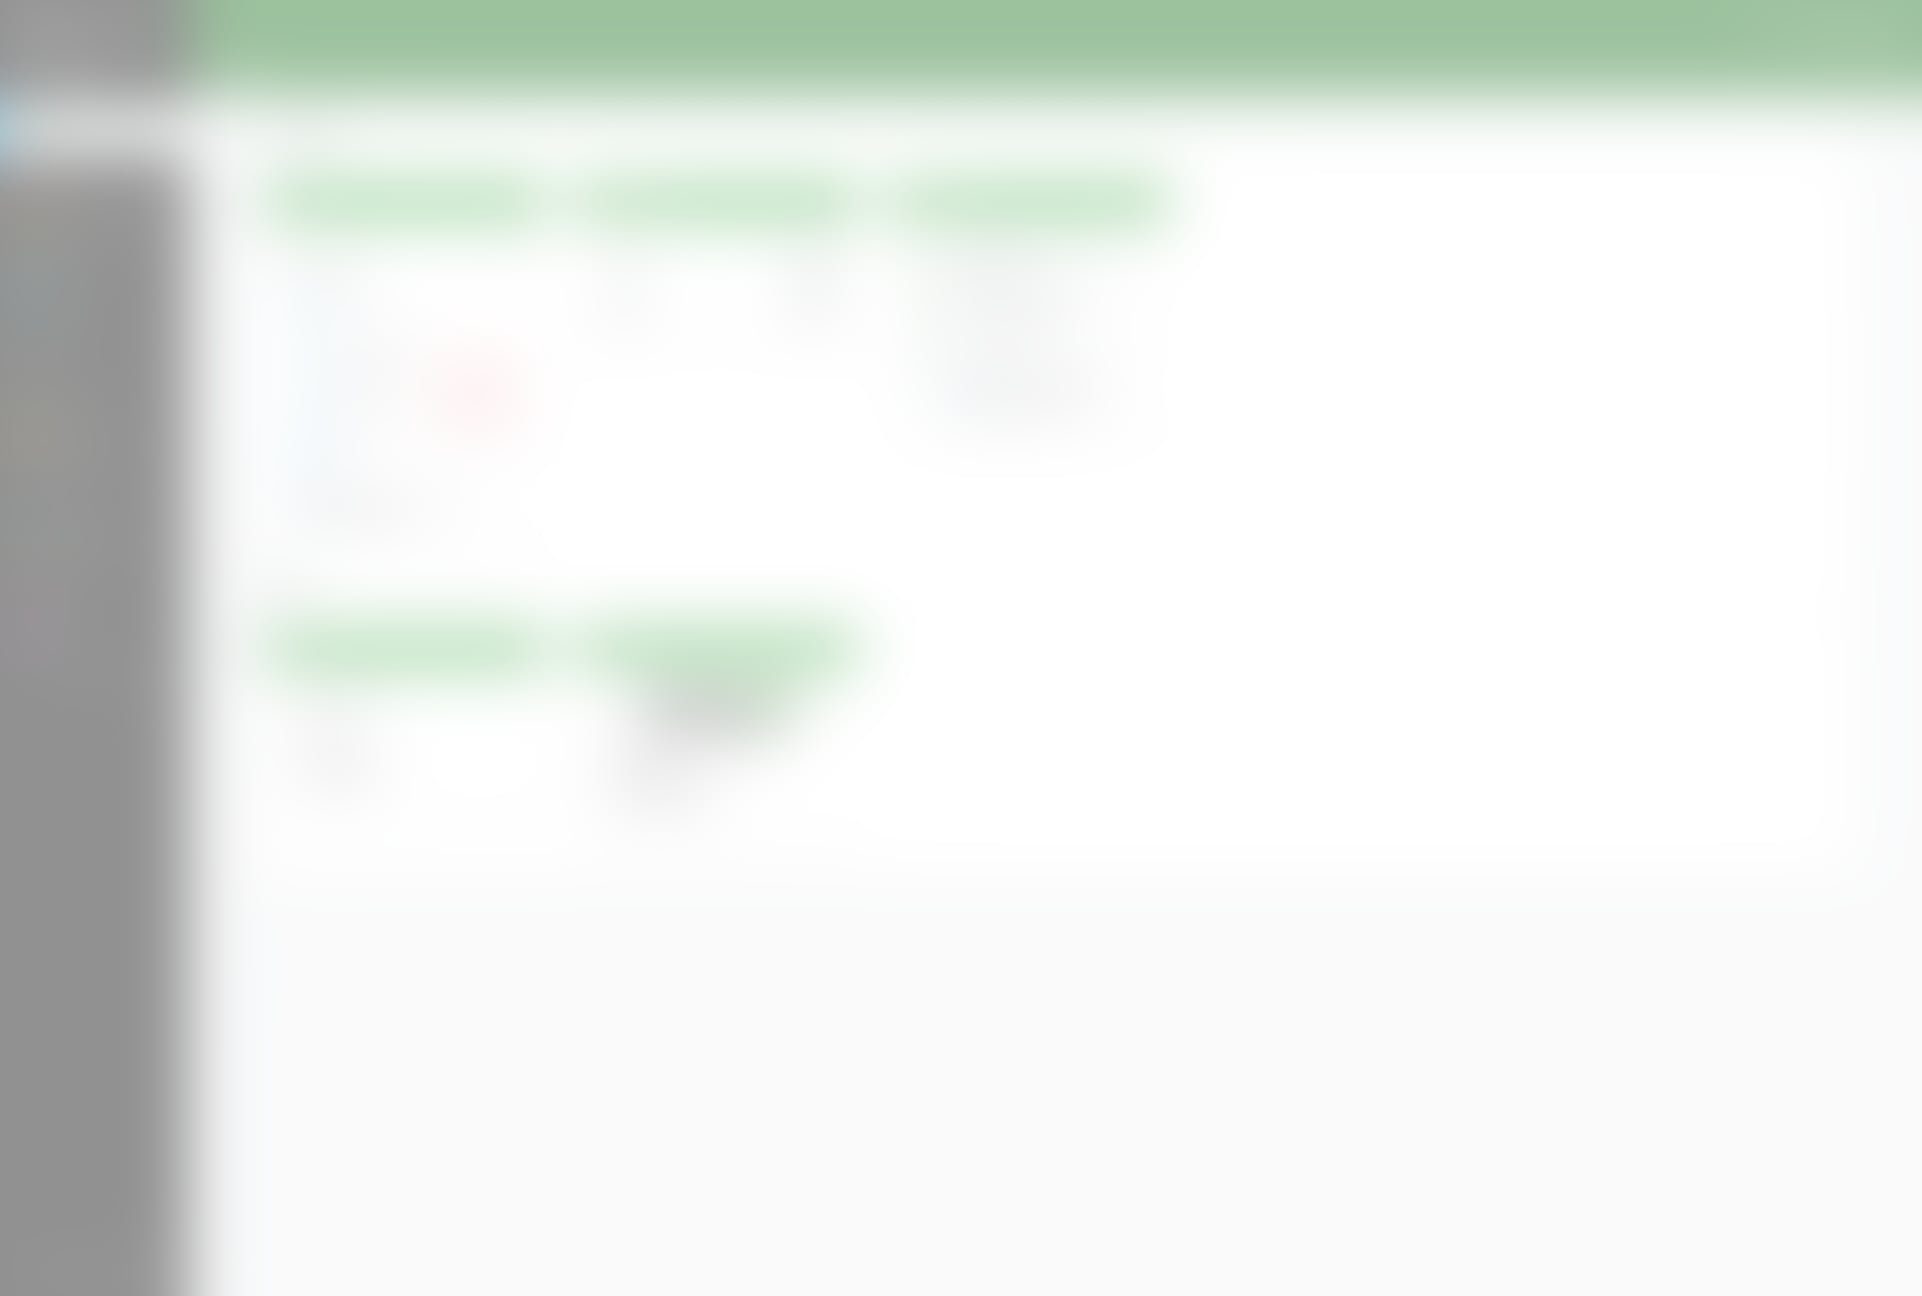
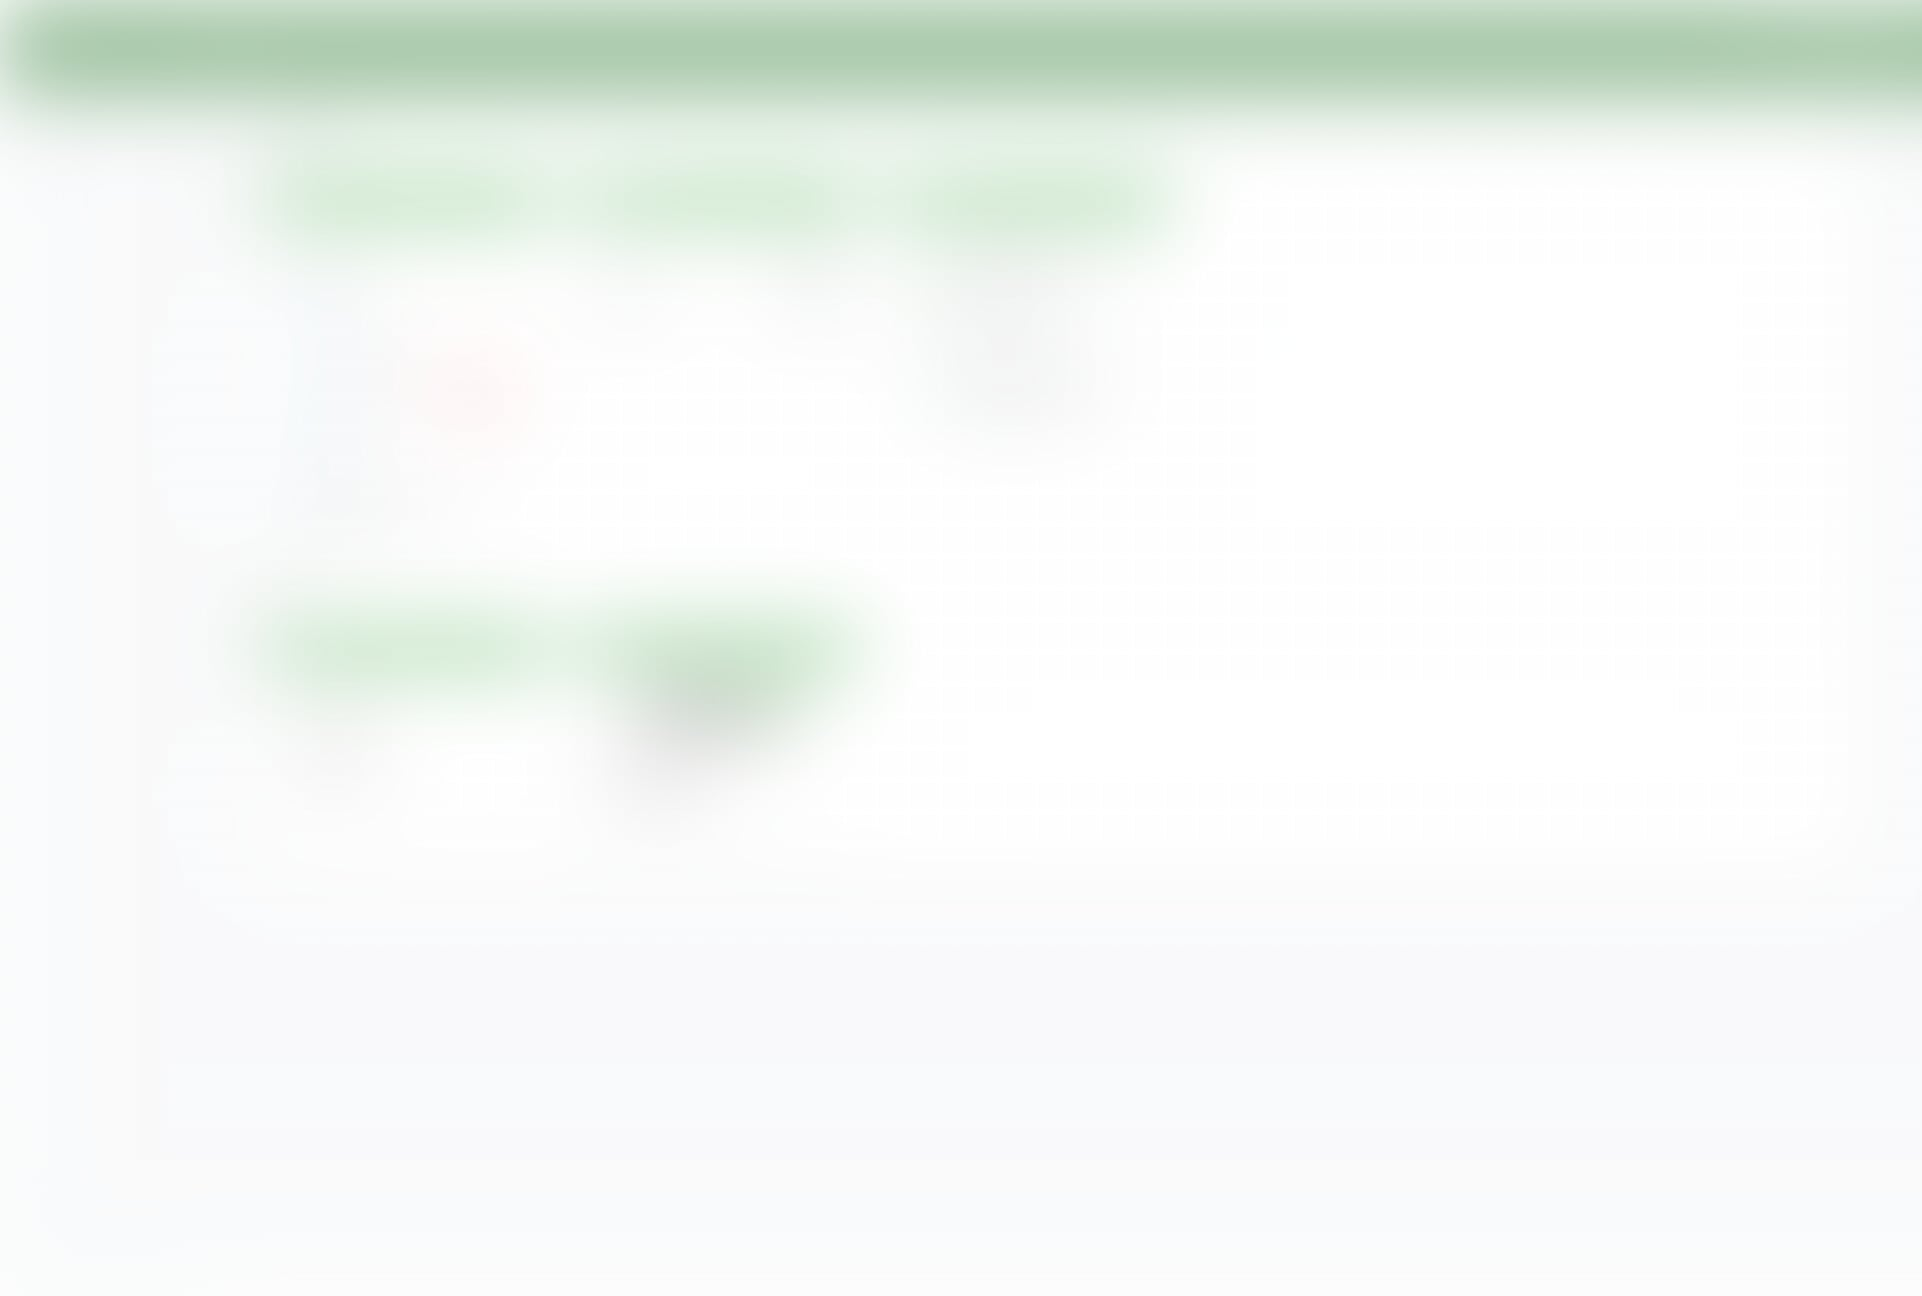
feat: add loading background (#469)

Changed region(s): [[0.0, 0.0, 1.0, 1.0]]

diff --git a/index.html b/index.html
@@ -54,10 +54,6 @@
       margin: 0;
       font-family: 'Quicksand', Roboto, sans-serif;
       background-color: rgba(244, 245, 247, 1);
-      background-image: url("resources/images/loading-background.jpg");
-      background-repeat: no-repeat;
-      background-attachment: fixed;
-      background-position: top left;
     }
 
     .loading-background {
@@ -222,28 +218,30 @@
 
 <body>
 <backend-ai-console id="console-shell" style="background-color:#222222;">
-  <div class="splash">
-    <div class="splash-header">
-      <img src="manifest/backend.ai-text.svg" style="height:50px;padding:35px 20px;">
+  <div class="loading-background">
+    <div class="splash">
+      <div class="splash-header">
+        <img src="manifest/backend.ai-text.svg" style="height:50px;padding:35px 20px;">
+      </div>
+      <div class="splash-information">
+        <ul>
+          <li>Backend.AI Console <span id="version-detail" class="detail"></span></li>
+          <li><span id="license-detail"></span></li>
+          <li><span id="mode-detail" class="detail"></span> <span id="build-detail" class="detail"></span></li>
+        </ul>
+        <ul>
+          <li>Powered by open-source software</li>
+          <li class="copyright">Copyright &copy; 2015-2020 Lablup Inc.</li>
+        </ul>
+      </div>
+      <div class="sk-folding-cube">
+        <div class="sk-cube1 sk-cube"></div>
+        <div class="sk-cube2 sk-cube"></div>
+        <div class="sk-cube4 sk-cube"></div>
+        <div class="sk-cube3 sk-cube"></div>
+      </div>
+      <div id="loading-message" class="loading-message">Loading components...</div>
     </div>
-    <div class="splash-information">
-      <ul>
-        <li>Backend.AI Console <span id="version-detail" class="detail"></span></li>
-        <li><span id="license-detail"></span></li>
-        <li><span id="mode-detail" class="detail"></span> <span id="build-detail" class="detail"></span></li>
-      </ul>
-      <ul>
-        <li>Powered by open-source software</li>
-        <li class="copyright">Copyright &copy; 2015-2020 Lablup Inc.</li>
-      </ul>
-    </div>
-    <div class="sk-folding-cube">
-      <div class="sk-cube1 sk-cube"></div>
-      <div class="sk-cube2 sk-cube"></div>
-      <div class="sk-cube4 sk-cube"></div>
-      <div class="sk-cube3 sk-cube"></div>
-    </div>
-    <div id="loading-message" class="loading-message">Loading components...</div>
   </div>
 </backend-ai-console>
 <noscript>
